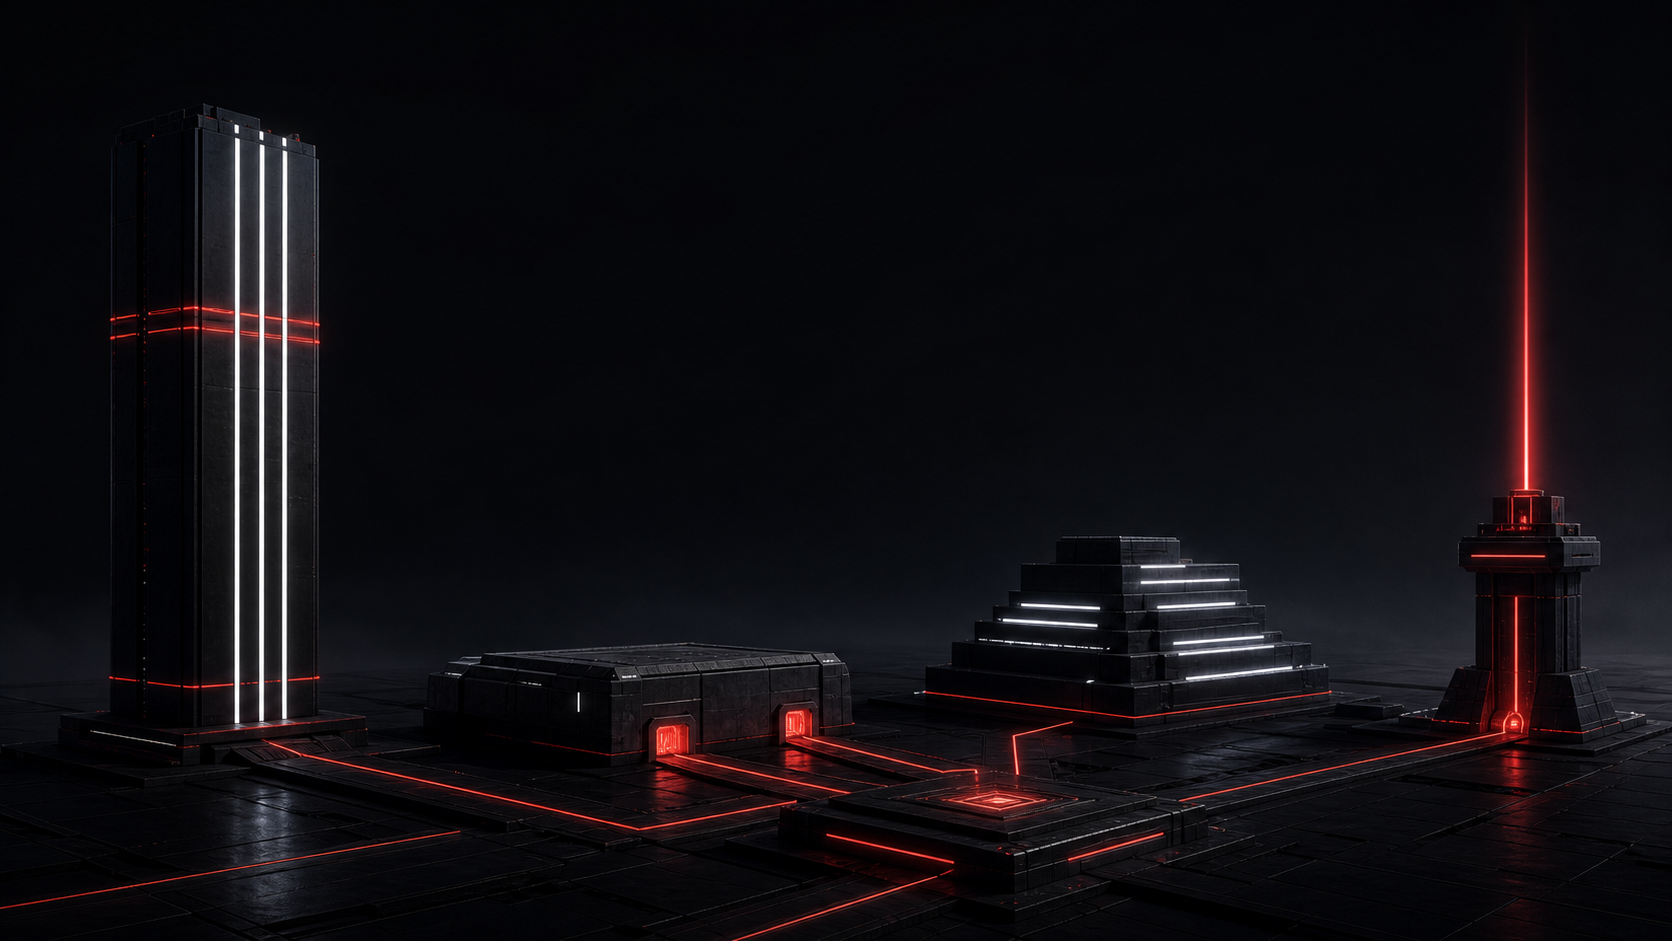
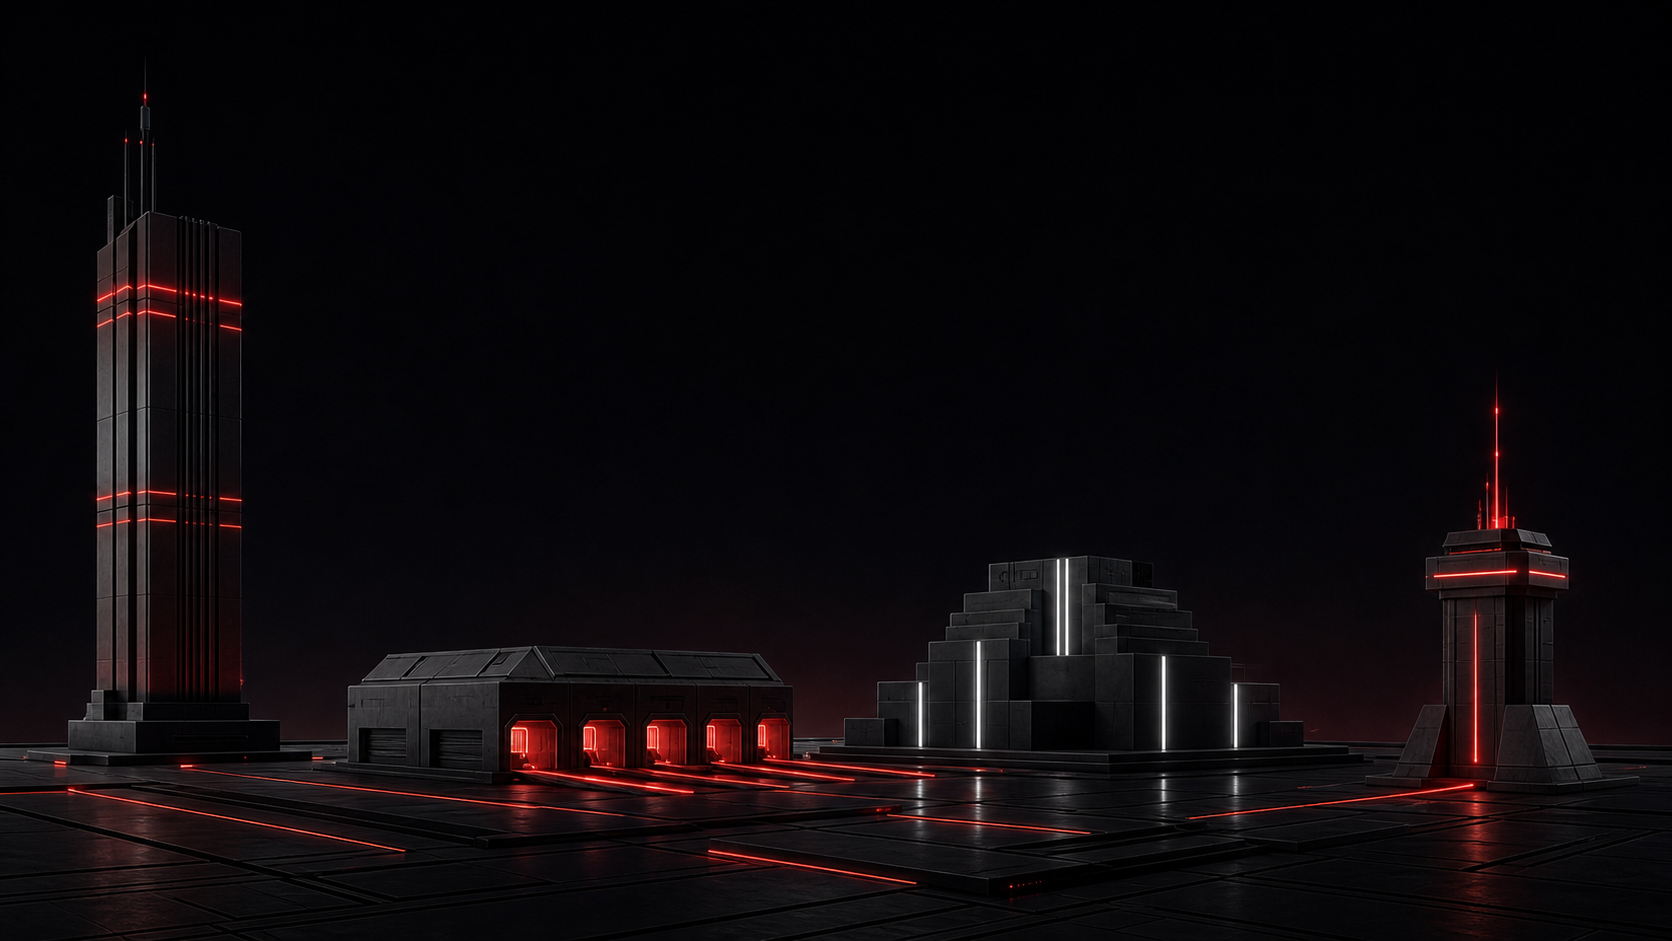
feat(registry): refine domain hero background

Changed region(s): [[0.0, 0.0925, 1.0, 1.0], [0.4354, 0.9862, 0.4665, 1.0]]

diff --git a/packages/registry/app/page.tsx b/packages/registry/app/page.tsx
@@ -33,11 +33,10 @@ export default function HomePage() {
           src="/registry-domain-landscape.png"
           alt=""
           aria-hidden="true"
-          className="absolute inset-0 h-full w-full object-cover object-center opacity-80 saturate-[0.92]"
+          className="absolute inset-0 h-full w-full object-cover object-center opacity-95 saturate-[0.9]"
         />
-        <div className="absolute inset-0 bg-[linear-gradient(180deg,rgba(0,0,0,0.76)_0%,rgba(0,0,0,0.42)_42%,rgba(0,0,0,0.9)_100%)]" />
-        <div className="absolute inset-0 bg-[radial-gradient(circle_at_50%_18%,rgba(127,29,29,0.24),transparent_38%)]" />
-        <div className="absolute inset-0 opacity-[0.045] [background-image:linear-gradient(rgba(255,255,255,0.35)_1px,transparent_1px),linear-gradient(90deg,rgba(255,255,255,0.35)_1px,transparent_1px)] [background-size:52px_52px]" />
+        <div className="absolute inset-0 bg-[linear-gradient(180deg,rgba(0,0,0,0.24)_0%,rgba(0,0,0,0.18)_42%,rgba(0,0,0,0.72)_100%)]" />
+        <div className="absolute inset-0 bg-[radial-gradient(circle_at_50%_22%,rgba(127,29,29,0.18),transparent_34%)]" />
 
         <div className="relative z-10 mx-auto flex min-h-[calc(100svh-56px)] w-full max-w-[96rem] flex-col justify-center px-5 py-16 md:px-8 md:py-20 lg:px-12">
           <header className="mx-auto flex max-w-4xl flex-col items-center text-center">
@@ -73,21 +72,18 @@ export default function HomePage() {
               </Link>
             </div>
 
-            <div className="mt-9 grid w-full max-w-3xl grid-cols-2 border border-white/12 text-left md:grid-cols-4">
+            <div className="mt-9 grid w-full max-w-3xl grid-cols-2 border border-white/12 bg-black/18 text-left backdrop-blur-[1px] md:grid-cols-4">
               {domainRegistry.map((domain) => (
                 <Link
                   key={domain.id}
                   href={domain.href}
-                  className="group min-h-24 border-b border-r border-white/12 bg-black/28 p-4 shadow-[0_20px_90px_rgba(0,0,0,0.28)] backdrop-blur-[2px] transition-colors hover:bg-white hover:text-black md:border-b-0 md:last:border-r-0"
+                  className="group min-h-20 border-b border-r border-white/12 p-4 transition-colors hover:bg-white hover:text-black md:border-b-0 md:last:border-r-0"
                 >
                   <span className="font-mono text-[10px] uppercase tracking-[0.22em] text-red-500 group-hover:text-red-700">
                     /{domain.id}
                   </span>
-                  <span className="mt-3 block text-lg font-semibold leading-tight">
+                  <span className="mt-3 block text-base font-semibold leading-tight">
                     {domain.title}
-                  </span>
-                  <span className="mt-2 block font-mono text-[10px] text-white/45 group-hover:text-black/55">
-                    {domain.schemaPackage}
                   </span>
                 </Link>
               ))}
